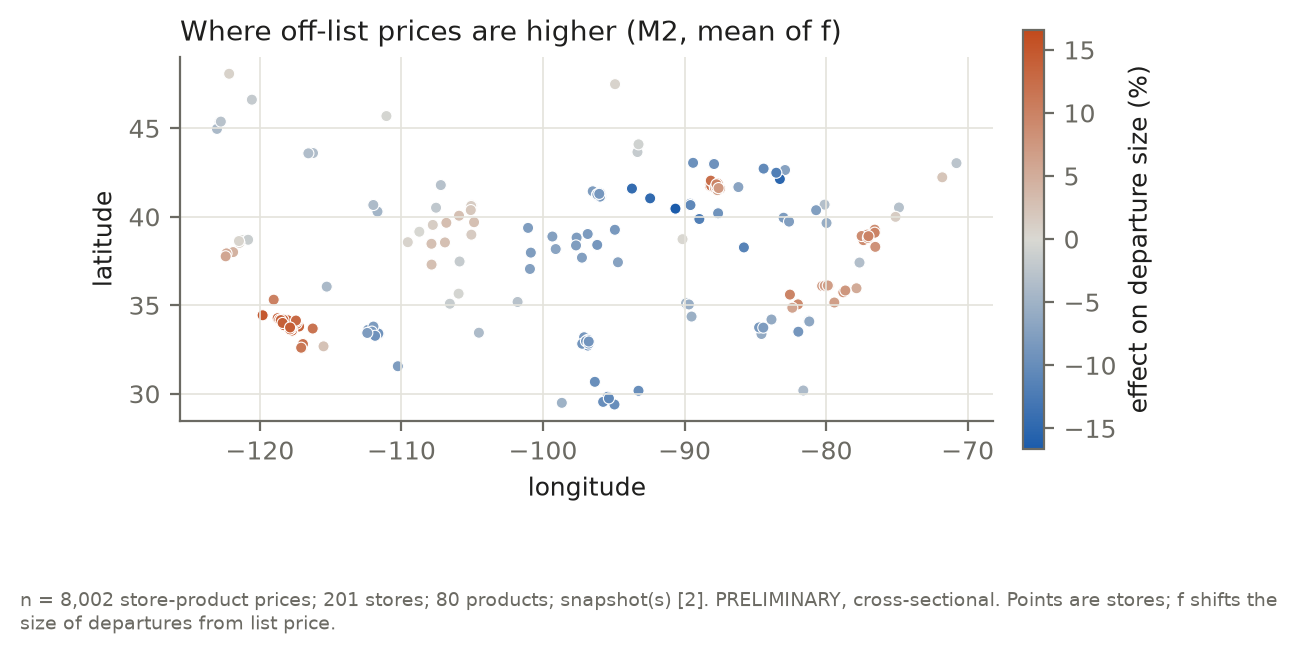
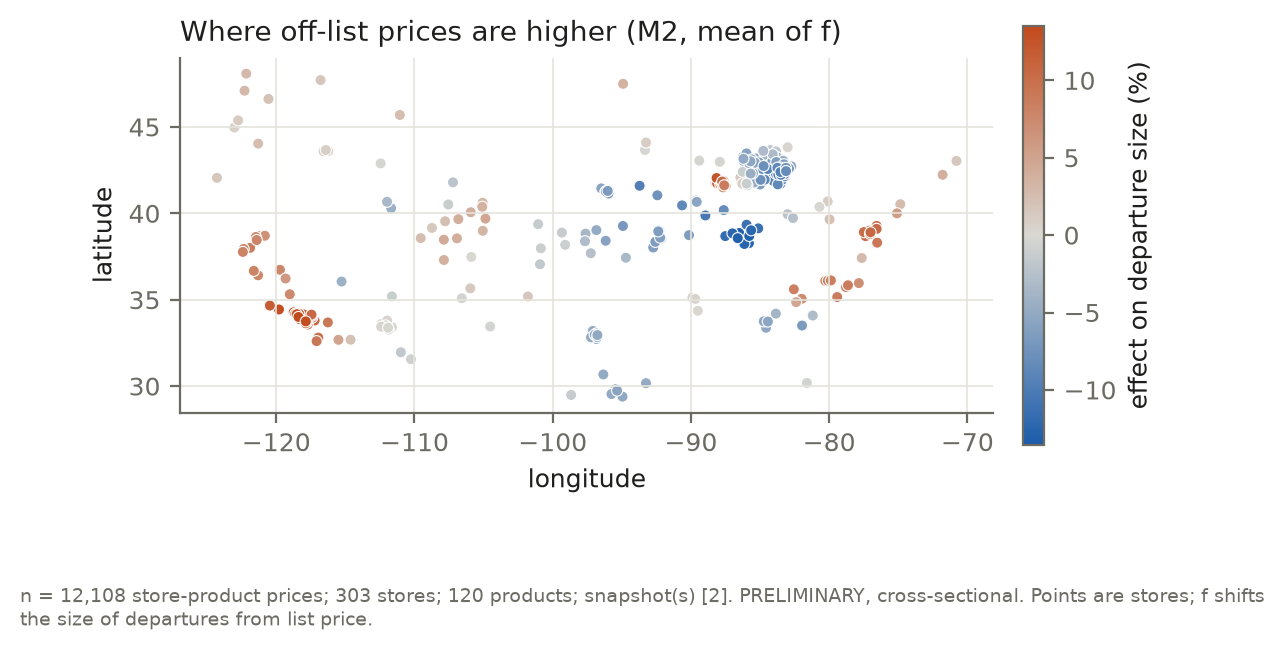
Module B on 303 stores (Kroger 191, Meijer 71, Walmart 41): LOO now favours spatial model; Kroger zone robustness on 191 stores

diff --git a/paper/writeup.md b/paper/writeup.md
@@ -145,12 +145,12 @@ that distance alone creates in a naive comparison).
 | Variogram range | no plateau | no plateau | ≈ 850 km | no plateau* |
 | Zones | 10; largest 79 stores, 27 states | 5 (not robust) | 18 regional | 28, division-aligned |
 | Nearby stores in the same zone vs permuted | 50% vs 20% | 78% vs 25% | 50% vs 6% | 48% vs 5% |
-| Split-half replication (ARI) | 0.52–0.54 | 0.41–0.53 | 0.96 | 0.83–0.98* |
+| Split-half replication (ARI) | 0.52–0.54 | 0.41–0.53 | 0.96 | 0.90–0.98* |
 
 All spatial-coherence p = 0.001. *Kroger, 191 stores (banner sample in progress). Its
 variogram had a plateau at about 240 km on the first 121 stores; with distant divisions
-added it keeps rising (local zones within a nationwide gradient). Robustness checks were
-run on 160 stores (25 zones).
+added it keeps rising (local zones within a nationwide gradient). Robustness checks
+on 191 stores: split-half ARI 0.90–0.98; γ = 0.5 vs 1 ARI 0.95.
 
 ![Figure 1](../figures/fig_e1_price_list_variogram.png)
 *Figure 1. Price-list variogram: share of shared products priced differently, by distance
@@ -167,7 +167,7 @@ between stores. Bands are 95% store-bootstrap intervals.*
   replicate almost perfectly: split-half ARI 0.96, and ARI 0.99 across priors.
 - **Kroger** is the most local at short range (Figure 3). Stores within 100 km differ on
   8% of shared products within a banner and 72% across banners. The zones replicate
-  (split-half ARI 0.83–0.98).
+  (split-half ARI 0.90–0.98).
 
   **They follow Kroger's operating divisions even more closely than its banners.** The
   location id starts with a 3-digit division number. At 191 stores (16 banners, 20
@@ -196,15 +196,14 @@ regional zones.*
 model never sees banners, yet most zones fall inside one banner (and more inside one
 division).*
 
-**Departures and extremes** (M2, Figure 4; Kroger 160 stores and Walmart 41; 8,002 prices,
-70% at list; R-hat ≤ 1.006, no divergences).
-- **Kroger:** departure sizes are almost entirely regional (spatial share 0.996, 90%
-  interval 0.985–1.000; length-scale about 92 km).
-- **Walmart:** spatial share 0.51 (0.35–0.68).
-- **Departure size:** +3.0% on average at Kroger and about 0 at Walmart.
-- **Fit:** PSIS-LOO does not separate the spatial model from the model without $f$, and the
-  extreme departures are heavier than the fitted $t_{\nu \approx 2.2}$ (99th percentile 0.34
-  observed vs 0.30 replicated).
+**Departures and extremes** (M2, Figure 4). The model is fitted to Kroger (191 stores),
+Meijer (71) and Walmart (41): 12,108 prices, 78% at list. It converges (4 × 2,000 draws,
+R-hat ≤ 1.005, no divergences).
+- **Spatial share of store-level departure size:** Kroger 0.93 (90% interval 0.89–0.96);
+  Walmart 0.49 (0.32–0.65); Meijer 0.13 (0.06–0.23). Kroger's departures are regional,
+  while Meijer's are store-specific. Length-scale about 120 km.
+- **Fit:** PSIS-LOO favours the spatial model by 80 ± 16 elpd. Departures are very
+  heavy-tailed ($t_{\nu \approx 1.3}$).
 - **Extremes:** the upper tail is mostly geographic. A Honolulu Walmart charges \$6.28
   for milk against a chain median of \$2.97. Without Hawaii and Alaska, Walmart's
   generalised-Pareto shape is about 0 ($\hat\xi = -0.04$, 95% CI −0.40 to 0.14).
@@ -454,8 +453,8 @@ Pairs sharing a store are dependent, so bands come from a store bootstrap.
   permuted labels.
 
 **Prior sensitivity of the zones.**
-- Kroger (160 stores): $\gamma = 0.5$ vs 1 gives ARI 0.92; $\gamma = 5$ merges zones
-  (25 → 14).
+- Kroger (191 stores): $gamma = 0.5$ vs 1 gives ARI 0.95; $gamma = 5$ merges zones
+  (27 → 17).
 - ALDI: 7–11 zones across $\gamma$. With 91% of prices at list and 0.6% unique to one
   store, each store carries little information.
 - Walmart: 4–6 zones.

diff --git a/docs/PROGRESS.md b/docs/PROGRESS.md
@@ -709,3 +709,10 @@ simulation was not rerun because it is slow.
   - **Module B at 2,000 draws** on the current Kroger stores (CPU only).
   - Not started: the Kroger banner resume, which shares the 10,000/day key with the event
     passes. It resumes after the late pass as planned.
+- **Parallel analysis results (20:04):**
+  - Kroger zone robustness on 191 stores: split-half ARI 0.90–0.98; prior γ = 0.5 vs 1
+    ARI 0.95; γ = 5 merges 27 → 17.
+  - Module B now includes Meijer (303 stores: Kroger 191, Meijer 71, Walmart 41; 12,108
+    prices). M2 R-hat 1.005, ESS ≥ 1,205. Spatial share: Kroger 0.93, Walmart 0.49,
+    Meijer 0.13. LOO favours M2 by 80 ± 16 (now decisive). ν ≈ 1.3; ℓ ≈ 120 km.
+  - Write-up updated.
